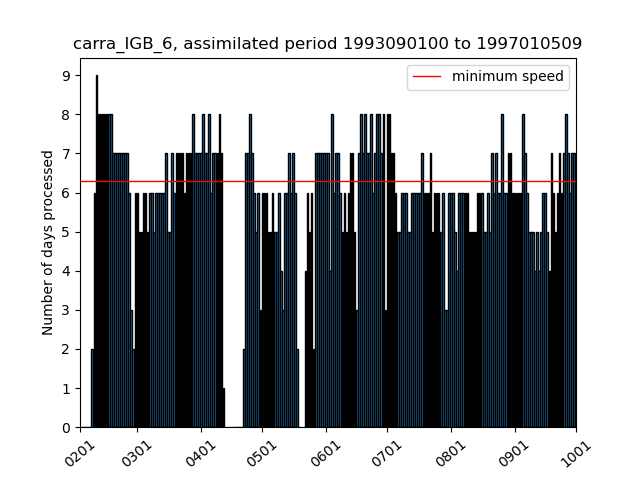
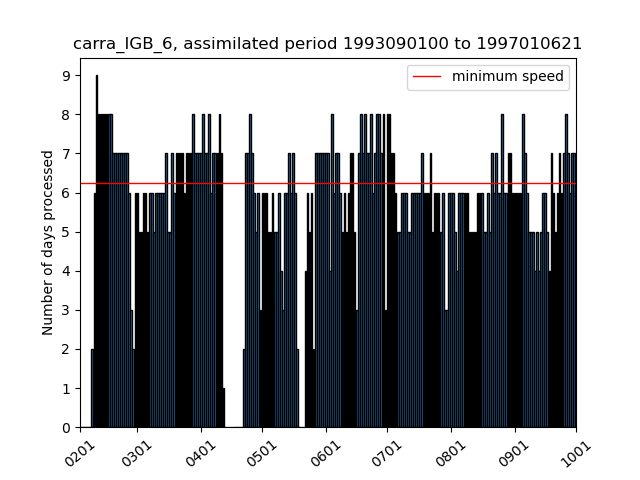
update repo

Changed region(s): [[0.125, 0.375, 0.9062, 0.4062], [0.8438, 0.0625, 0.9062, 0.125]]

diff --git a/current_state_sims.html b/current_state_sims.html
@@ -2,18 +2,18 @@
 <h1>Estimated completion dates and simulation speeds</h1>
 <p>Stream (production) completion date based on 30d (7d) moving avg speed</p>
 <p><a href="https://docs.google.com/document/d/1zDKAxuEXYnWWYzT3SZnZwY5WW8nodUMeYRjAGz46coc/edit#">Details of the calculation of the completion dates</a></p>
-<p>Last update: 2021/10/02 12:39:43 UTC</p>
+<p>Last update: 2021/10/02 18:41:48 UTC</p>
 <p>Total progress CARRA: 99.44% <a href="https://hirlam.org/portal/CARRA/Progress/GanntChart_CARRA.html"> (see detailed progress meter in Gantt chart) </a></p>
 <p>Total progress PANARCTIC: 91.67% </p>
 <p><a href="https://hirlam.org/portal/CARRA/Progress/waiting_times.html"> Queue waiting times for all streams</a></p>
 <p><a href="https://hirlam.org/portal/CARRA/Progress/mars_status.html"> MARS archive throughput </a></p>
 <html><table border="1"><tr><th>expId</th><th>Current assimilated date</th><th>End date of stream </th><th> Completion date</th><th> Avg. throughput (7d) </th> <th>Avg. throughput (30d) </th> <th> Remarks</tr>
-<tr bgcolor="#FFFF00"><td>carra_NE_3</td><td>2021063000</td><td>2021063021</td><td>2021100212</td><td>(0.0) days/day</td><td>(3.57) days/day</td><td>Inactive the past week</tr>
+<tr bgcolor="#FFFF00"><td>carra_NE_3</td><td>2021063000</td><td>2021063021</td><td>2021100218</td><td>(0.0) days/day</td><td>(3.57) days/day</td><td>Inactive the past week</tr>
 <tr bgcolor="#33FF38"><td>carra_NE_4</td><td>1992090100</td><td>1992083021</td><td>Finished on 20210824</td><td>(0.0) days/day</td><td>(0.0) days/day</td><td>Stream finished</tr>
 <tr bgcolor="#33FF38"><td>carra_NE_5</td><td>1994090100</td><td>1994083021</td><td>Finished on 20210824</td><td>(0.0) days/day</td><td>(0.0) days/day</td><td>Stream finished</tr>
-<tr bgcolor="#33FF38"><td>carra_NE_6</td><td>1997070100</td><td>1997063021</td><td>2021100204</td><td>(0.0) days/day</td><td>(3.07) days/day</td><td>Stream finished</tr>
-<tr bgcolor="#FFFF00"><td>carra_IGB_3</td><td>2021063000</td><td>2021063021</td><td>2021100212</td><td>(0.0) days/day</td><td>(3.43) days/day</td><td>Inactive the past week</tr>
-<tr bgcolor="#33FF38"><td>carra_IGB_4</td><td>1992090100</td><td>1992083021</td><td>2021093018</td><td>(0.0) days/day</td><td>(1.13) days/day</td><td>Stream finished</tr>
-<tr bgcolor="#33FF38"><td>carra_IGB_5</td><td>1994090100</td><td>1994083021</td><td>2021100202</td><td>(0.29) days/day</td><td>(4.6) days/day</td><td>Stream finished</tr>
-<tr bgcolor="#FFA500"><td>carra_IGB_6</td><td>1997010509</td><td>1997063021</td><td>2021110104</td><td>(6.86) days/day</td><td>(5.93) days/day</td><td>Completion date after project end (20211031)</tr>
-<tr bgcolor="#FFFFFF"><td>carra_pan</td><td>2018081509</td><td>2018090100</td><td>2021100711</td><td>(3.86) days/day</td><td>(3.43) days/day</td><td></tr>
+<tr bgcolor="#33FF38"><td>carra_NE_6</td><td>1997070100</td><td>1997063021</td><td>2021100210</td><td>(0.0) days/day</td><td>(3.07) days/day</td><td>Stream finished</tr>
+<tr bgcolor="#FFFF00"><td>carra_IGB_3</td><td>2021063000</td><td>2021063021</td><td>2021100218</td><td>(0.0) days/day</td><td>(3.43) days/day</td><td>Inactive the past week</tr>
+<tr bgcolor="#33FF38"><td>carra_IGB_4</td><td>1992090100</td><td>1992083021</td><td>2021100100</td><td>(0.0) days/day</td><td>(1.13) days/day</td><td>Stream finished</tr>
+<tr bgcolor="#33FF38"><td>carra_IGB_5</td><td>1994090100</td><td>1994083021</td><td>2021100208</td><td>(0.29) days/day</td><td>(4.6) days/day</td><td>Stream finished</tr>
+<tr bgcolor="#FFA500"><td>carra_IGB_6</td><td>1997010621</td><td>1997063021</td><td>2021110106</td><td>(6.86) days/day</td><td>(5.93) days/day</td><td>Completion date after project end (20211031)</tr>
+<tr bgcolor="#FFFFFF"><td>carra_pan</td><td>2018081600</td><td>2018090100</td><td>2021100710</td><td>(3.86) days/day</td><td>(3.43) days/day</td><td></tr>
